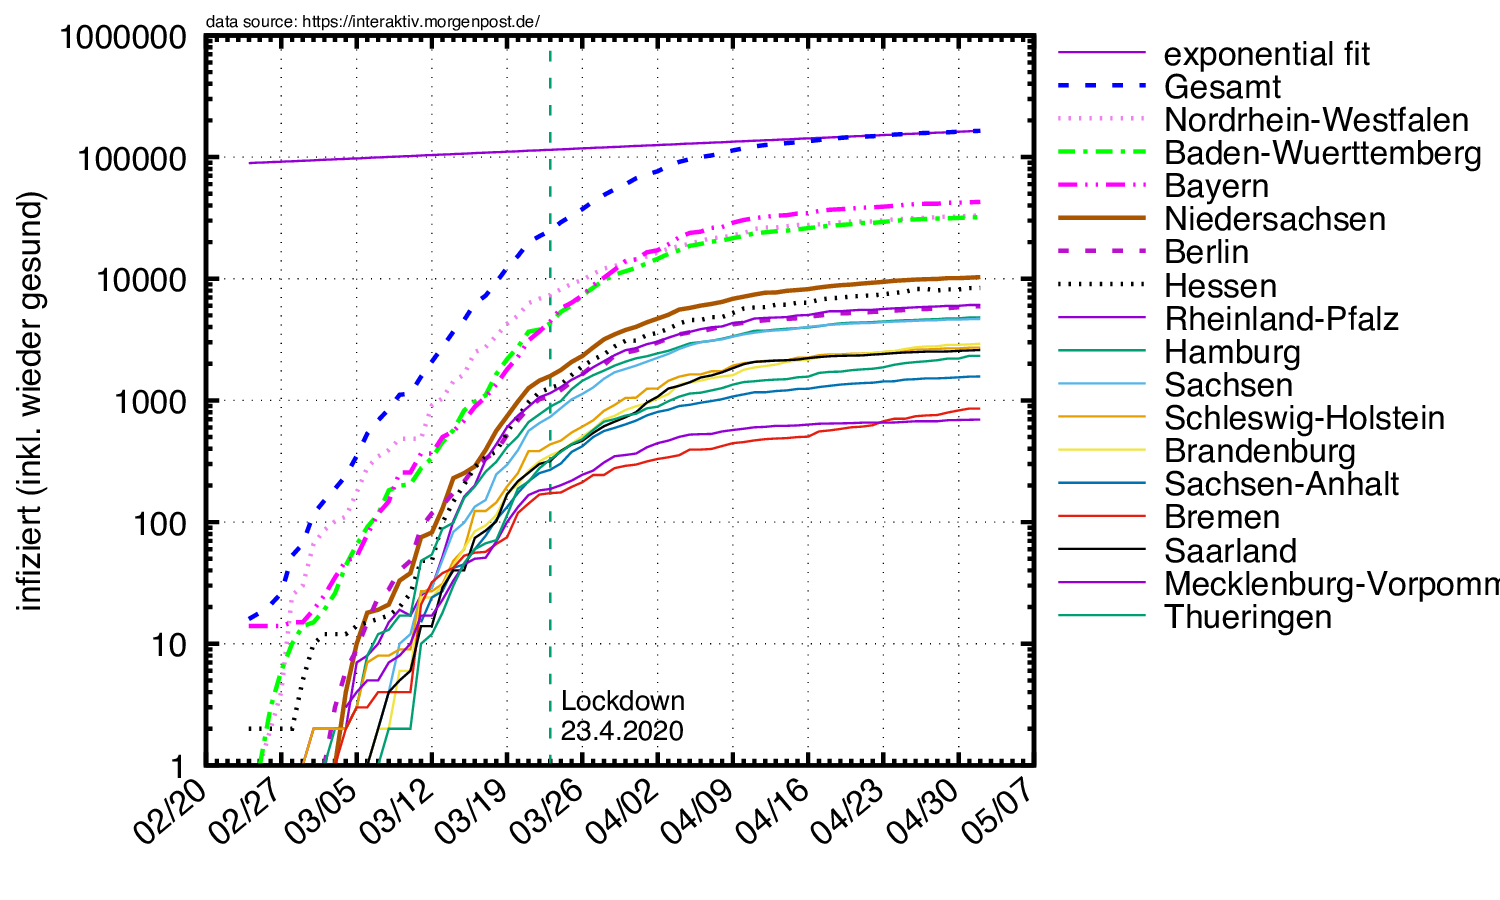
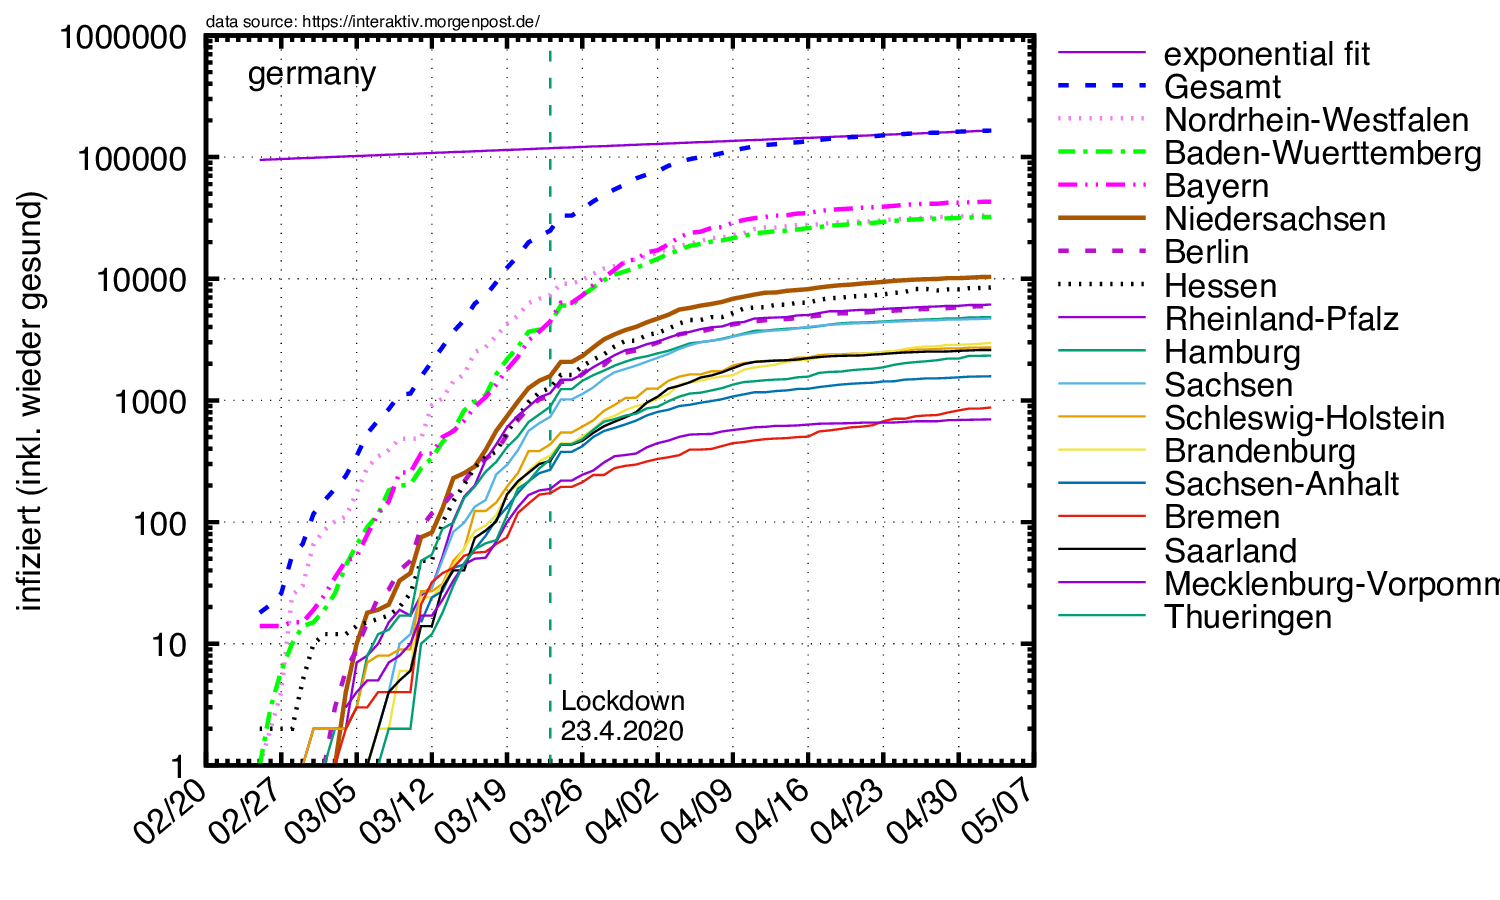
Update. Include world.

diff --git a/corona/index.html b/corona/index.html
@@ -57,14 +57,27 @@ Die selben Plots f&uuml;r Europa.
 </p>
 
 <hr>
+<h3>Welt</h3>
+
+Die selben Plots f&uuml;r andere L&auml;nder.
+<p>
+<img width="45%" src="plots/plot_world-0.png">
+<img width="45%" src="plots/plot_world-1.png">
+</p>
+
+<hr>
 
 <h3>Momentan Infizierte</h3>
 Nun die Zahl der momentan Infizierten, also die Differenz aus Infizierten
 und wieder Genesenen.
 <p>
-<img width="45%" src="plots/plot_germany-2.png">
-<img width="45%" src="plots/plot_europe-2.png">
-<p>
+<table>
+<td align="center" colspan="2">
+<img width="45%" src="plots/plot_germany-2.png"></td><tr>
+<td><img width="90%" src="plots/plot_europe-2.png"></td><td>
+<img width="90%" src="plots/plot_world-2.png"></td>
+</table>
+</p>
 
 <hr>
 
@@ -72,9 +85,13 @@ und wieder Genesenen.
 Als n&auml;chstes die Zahl der Neu-Erkrankungen pro Tag in Deutschland und Europa,
 gemittelt &uuml;ber 10-Tage-Intervalle:
 <p>
-<img width="45%" src="plots/plot_germany-3.png">
-<img width="45%" src="plots/plot_europe-3.png">
-<p>
+<table>
+<td align="center" colspan="2">
+<img width="45%" src="plots/plot_germany-3.png"></td><tr>
+<td><img width="90%" src="plots/plot_europe-3.png"></td><td>
+<img width="90%" src="plots/plot_world-3.png"></td>
+</table>
+</p>
 
 <hr>
 
@@ -87,9 +104,13 @@ neu genesenen. Der Normierungsfaktor ist N/(N-I), mit N=Einwohner Deutschlands,
 und I=Zahl der Infizierten (Genesene mit eingerechnet). Um statistische Schwankungen
 klein zu halten, mitteln wir wieder &uuml;ber ein 10-Tage-Intervall:
 <p>
-<img width="45%" src="plots/plot_germany-4.png">
-<img width="45%" src="plots/plot_europe-4.png">
-<p>
+<table>
+<td align="center" colspan="2">
+<img width="45%" src="plots/plot_germany-4.png"></td><tr>
+<td><img width="90%" src="plots/plot_europe-4.png"></td><td>
+<img width="90%" src="plots/plot_world-4.png"></td>
+</table>
+</p>
 
 <hr>
 
